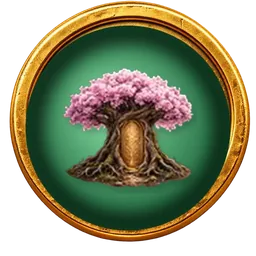
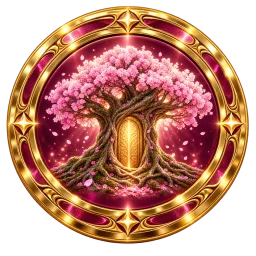
Medal update

diff --git a/sw.js b/sw.js
@@ -285,7 +285,7 @@ const CURRENT_CACHES = {
   // Ready Pass 1: score-card Booha line style (theme/game.css).
   // Trophy token refresh: replace the older character/duplicate trophy centers
   // with the shared photorealistic round-token set.
-  assets: 'booha-assets-2026-606',
+  assets: 'booha-assets-2026-607',
   // Utsuroba episodes gained vocabulary (8 words per memory per level).
   decks:  'booha-decks-2026-315',
 };
